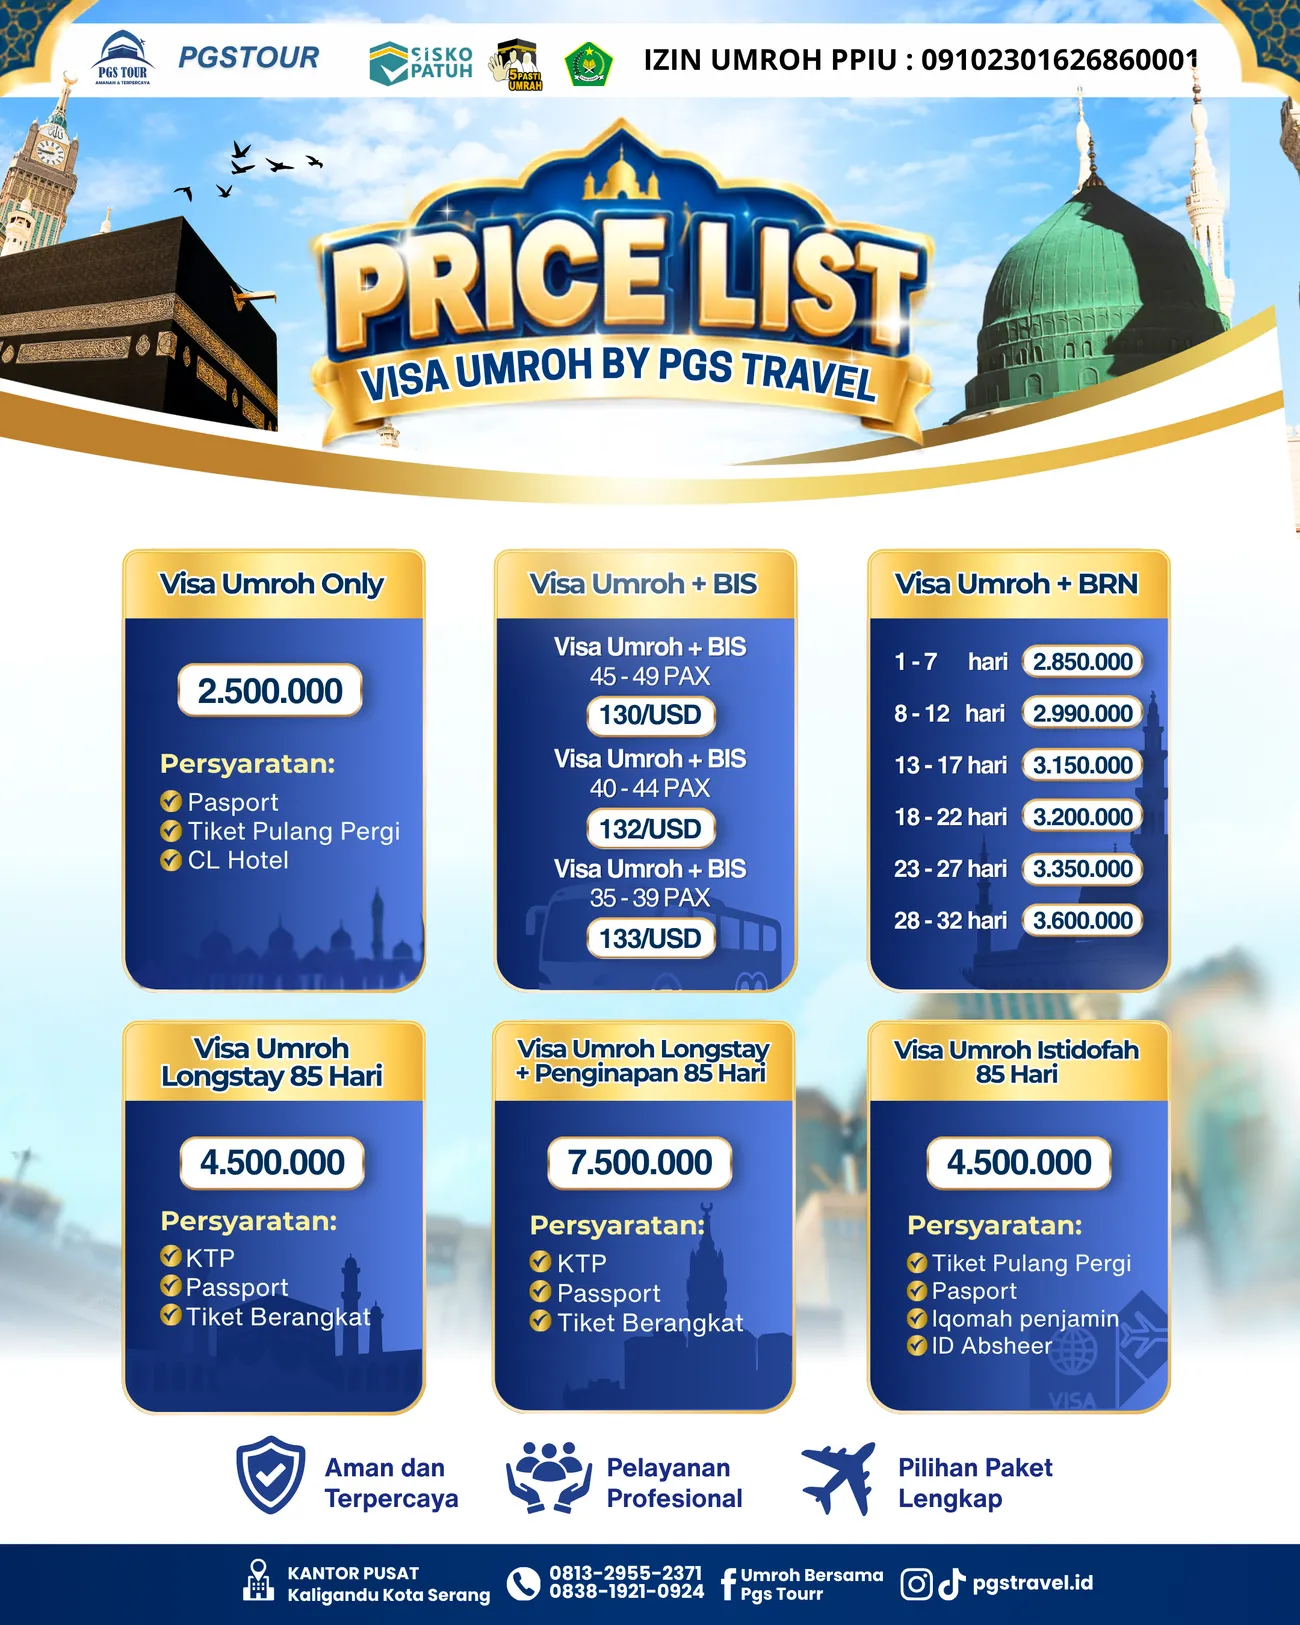
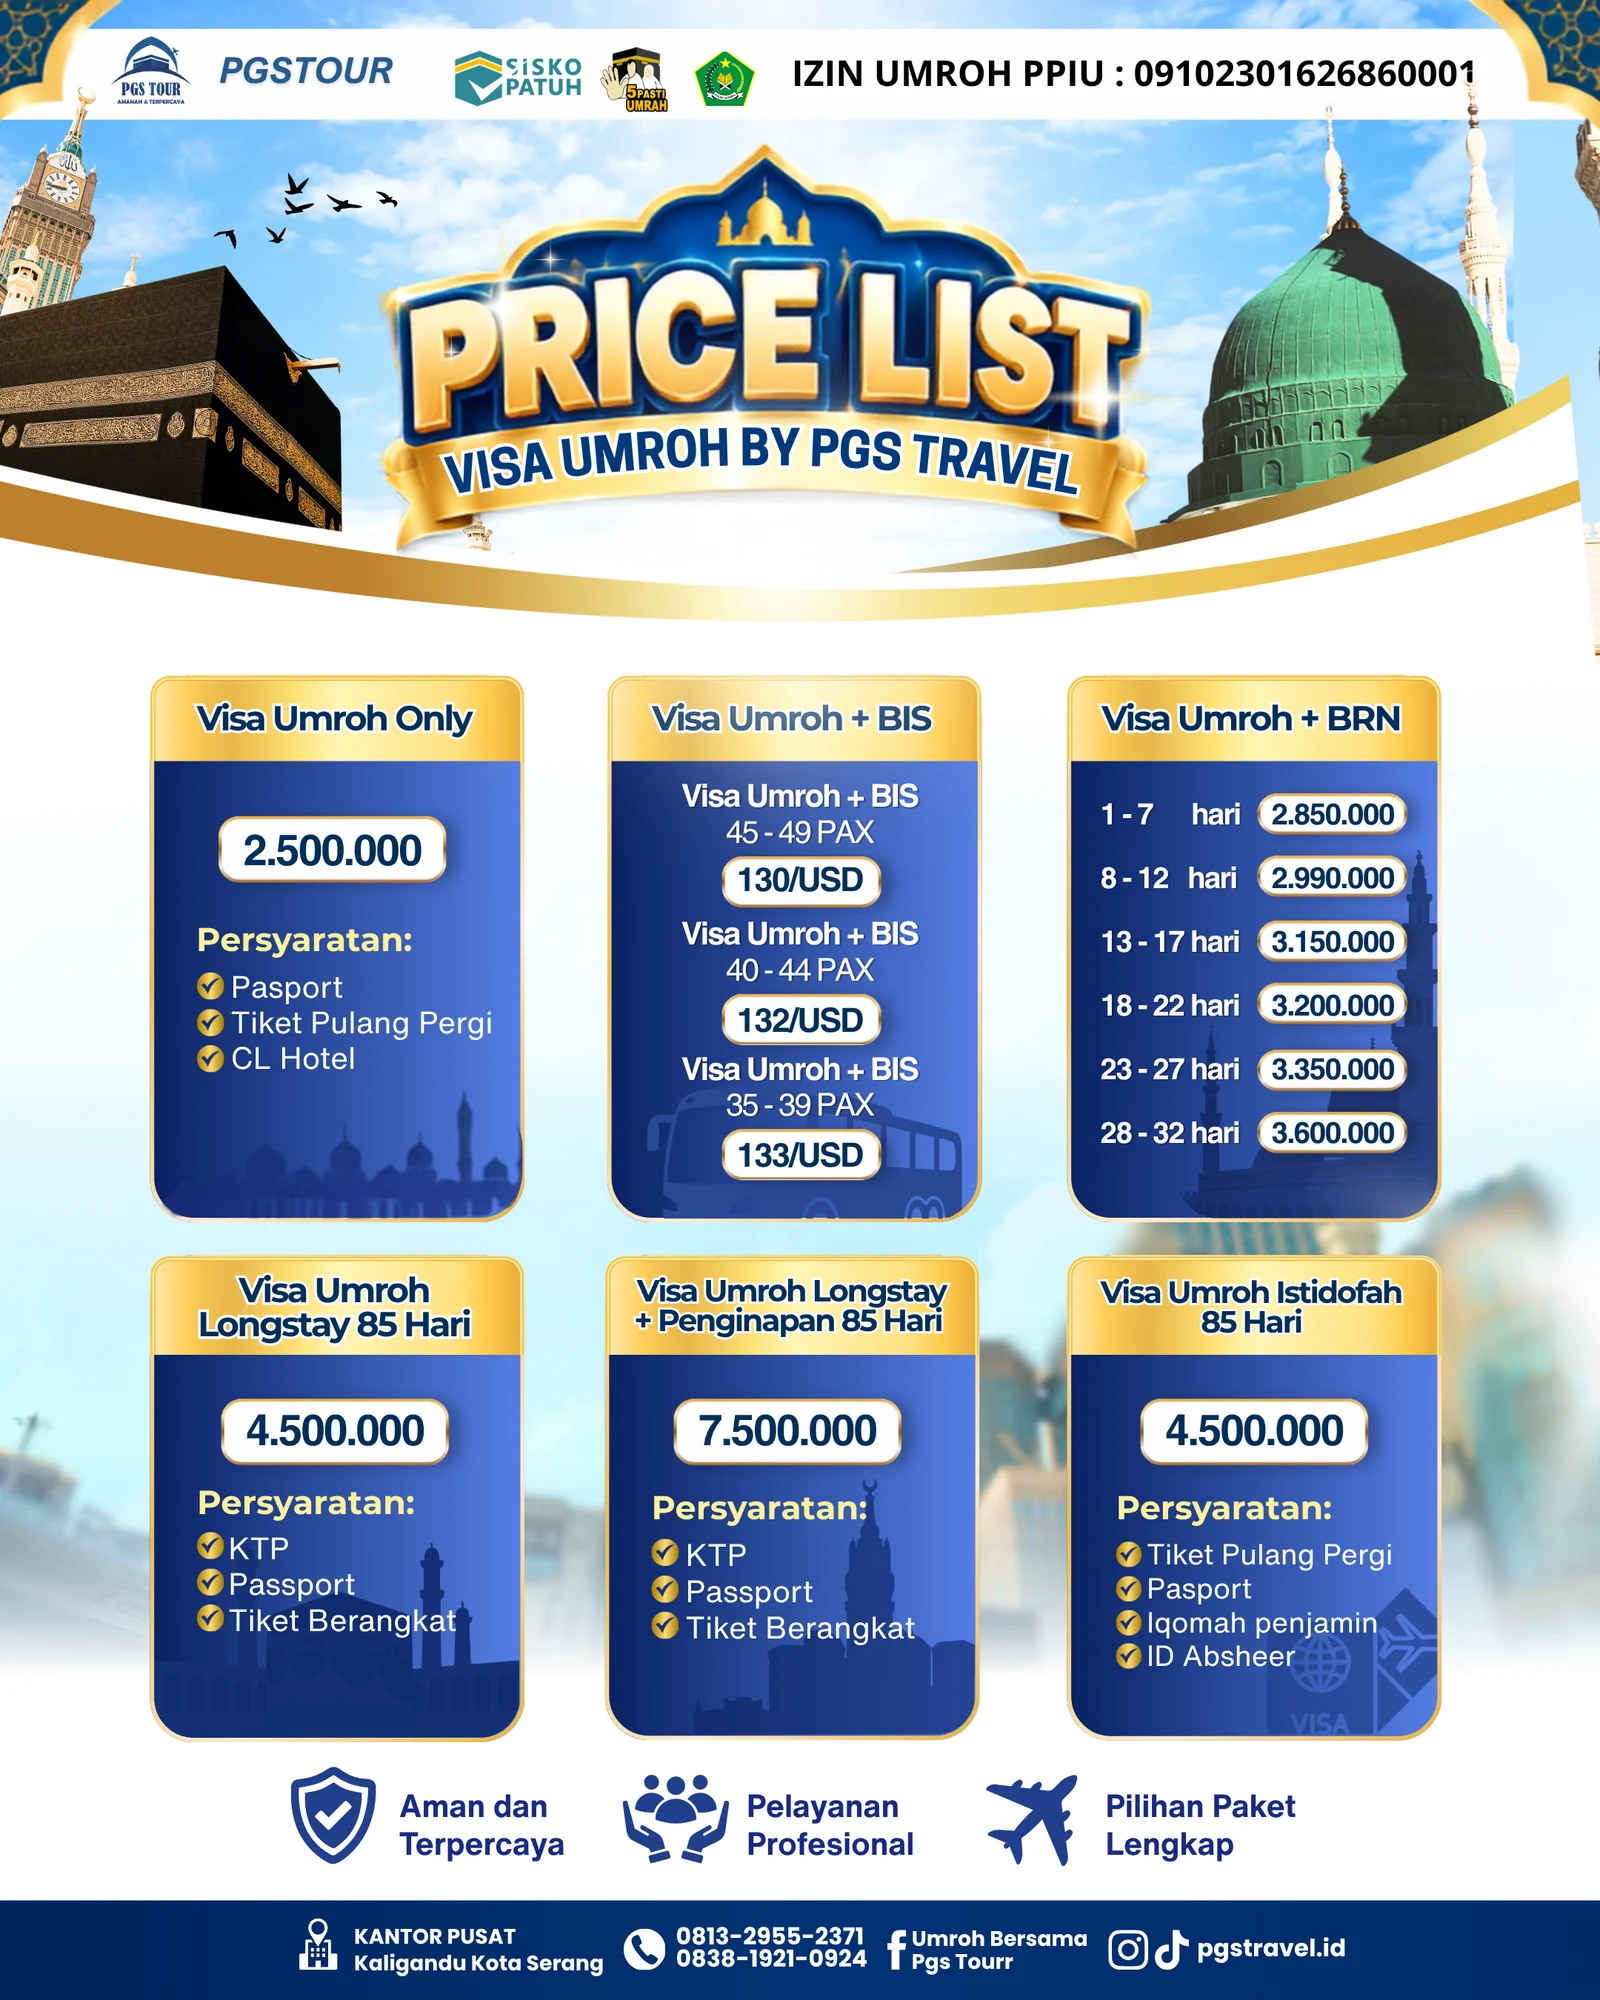
Font Plus Jakarta Sans + poster jadi foto paket
- Ganti Hanken Grotesk -> Plus Jakarta Sans di seluruh situs
- Re-optimasi poster ke 1600px webp (lebih tajam, ~340KB)
- Poster Umroh Mahabbah dipakai sebagai foto paket (PackageCard object-top)
- Hilangkan badge overlay & background foto di hero detail (poster sudah bicara)
- PosterView tetap di detail paket & halaman visa (klik = ukuran penuh)

Changed region(s): [[0.4308, 0.9538, 0.4923, 0.9846], [0.8, 0.5231, 0.8308, 0.5538]]

diff --git a/src/app/perjalanan/[slug]/page.tsx b/src/app/perjalanan/[slug]/page.tsx
@@ -48,15 +48,8 @@ export default async function PackageDetailPage({
   return (
     <>
       <section className="relative w-full overflow-hidden bg-ink-2 text-paper-2">
-        {/* Real photo background with multi-stop dark overlay */}
-        {/* eslint-disable-next-line @next/next/no-img-element */}
-        <img
-          src={pkg.image}
-          alt={pkg.name}
-          className="absolute inset-0 h-full w-full object-cover opacity-40"
-        />
-        <div className="absolute inset-0 bg-gradient-to-r from-ink-2/95 via-ink-2/85 to-ink-2/65" />
-        <div className="absolute inset-0 bg-gradient-to-t from-ink-2 via-transparent to-ink-2/60" />
+        <div className="absolute inset-0 bg-[radial-gradient(130%_120%_at_85%_0%,#2c67b2_0%,#1b287c_48%,#0c1030_100%)]" />
+        <div className="absolute inset-0 bg-gradient-to-t from-ink-2 via-transparent to-transparent" />
 
         <div className="relative mx-auto w-full max-w-7xl px-5 pb-8 pt-28 sm:px-8 sm:pb-10 sm:pt-32">
           <Link
@@ -214,8 +207,8 @@ export default async function PackageDetailPage({
         <PosterView
           src="/img/poster-umroh-mahabbah.webp"
           alt="Poster resmi Umroh Mahabbah PGS Tour"
-          width={1300}
-          height={1845}
+          width={1600}
+          height={2270}
           title="Poster resmi paket ini"
           note="Semua rincian di halaman ini diambil dari poster berikut."
         />

diff --git a/src/components/PackageCard.tsx b/src/components/PackageCard.tsx
@@ -26,28 +26,18 @@ export function PackageCard({
     >
       <div
         className={clsx(
-          "relative shrink-0 overflow-hidden bg-sand",
-          featured ? "h-52 md:h-auto md:w-[45%]" : "h-44",
+          "relative shrink-0 overflow-hidden bg-[#dbeafe]",
+          featured ? "h-60 md:h-auto md:w-[42%]" : "h-48",
         )}
       >
         <Photo
           src={pkg.image}
           label={pkg.name}
-          alt={`Suasana ${pkg.cities.join(", ")}`}
+          alt={`Poster ${pkg.name}`}
           bare
           fill
-          imgClassName="transition-transform duration-500 group-hover:scale-[1.05]"
+          imgClassName="object-top transition-transform duration-500 group-hover:scale-[1.03]"
         />
-        <div className="absolute left-2.5 top-2.5 flex flex-wrap gap-1">
-          {pkg.badges.slice(0, featured ? 2 : 1).map((b) => (
-            <span
-              key={b}
-              className="rounded-full bg-paper-2/95 px-2 py-0.5 text-[10px] font-semibold text-ink shadow-2xs backdrop-blur-xs"
-            >
-              {b}
-            </span>
-          ))}
-        </div>
       </div>
 
       <div className="flex flex-1 flex-col p-4 sm:p-5">

diff --git a/src/app/globals.css b/src/app/globals.css
@@ -30,8 +30,8 @@
   --color-accent: #1173b0;
   --color-accent-soft: #86d0f2;
 
-  --font-display: var(--font-hanken), ui-sans-serif, system-ui, sans-serif;
-  --font-sans: var(--font-hanken), ui-sans-serif, system-ui, sans-serif;
+  --font-display: var(--font-jakarta), ui-sans-serif, system-ui, sans-serif;
+  --font-sans: var(--font-jakarta), ui-sans-serif, system-ui, sans-serif;
 
   --shadow-soft: 0 1px 2px rgba(12, 16, 48, 0.05), 0 14px 34px -14px rgba(12, 16, 48, 0.16);
   --shadow-lift: 0 2px 4px rgba(12, 16, 48, 0.06), 0 26px 60px -22px rgba(12, 16, 48, 0.22);
@@ -65,18 +65,18 @@ body {
   color: var(--color-ink);
 }
 
-/* Headline helper: tight, heavy grotesk */
+/* Headline helper: Plus Jakarta Sans, tight */
 .font-display {
   font-family: var(--font-display);
   font-weight: 700;
-  letter-spacing: -0.02em;
+  letter-spacing: -0.015em;
 }
 
 .headline {
   font-family: var(--font-display);
   font-weight: 700;
-  letter-spacing: -0.03em;
-  line-height: 0.98;
+  letter-spacing: -0.02em;
+  line-height: 1.03;
 }
 
 .text-balance {

diff --git a/src/app/layout.tsx b/src/app/layout.tsx
@@ -1,13 +1,13 @@
 import type { Metadata } from "next";
-import { Hanken_Grotesk } from "next/font/google";
+import { Plus_Jakarta_Sans } from "next/font/google";
 import "./globals.css";
 import { Navbar } from "@/components/layout/Navbar";
 import { Footer } from "@/components/layout/Footer";
 import { WhatsAppButton } from "@/components/layout/WhatsAppButton";
 import { site } from "@/lib/site";
 
-const hanken = Hanken_Grotesk({
-  variable: "--font-hanken",
+const jakarta = Plus_Jakarta_Sans({
+  variable: "--font-jakarta",
   subsets: ["latin"],
   display: "swap",
 });
@@ -45,7 +45,7 @@ export const metadata: Metadata = {
 
 export default function RootLayout({ children }: LayoutProps<"/">) {
   return (
-    <html lang="id" className={`${hanken.variable} h-full antialiased`}>
+    <html lang="id" className={`${jakarta.variable} h-full antialiased`}>
       <body className="min-h-screen bg-paper text-ink">
         <Navbar />
         <main>{children}</main>

diff --git a/src/app/perjalanan/page.tsx b/src/app/perjalanan/page.tsx
@@ -6,7 +6,6 @@ import { PageHeader } from "@/components/ui/PageHeader";
 import { PackageCard } from "@/components/PackageCard";
 import { Faq } from "@/components/Faq";
 import { CtaBand } from "@/components/CtaBand";
-import { PosterView } from "@/components/PosterView";
 import { mainPackage, formatIDR } from "@/content/packages";
 
 export const metadata: Metadata = {
@@ -63,15 +62,6 @@ export default function PerjalananPage() {
           </p>
         </Container>
       </section>
-
-      <PosterView
-        src="/img/poster-umroh-mahabbah.webp"
-        alt="Poster resmi Umroh Mahabbah PGS Tour: harga kamar, fasilitas, dan program"
-        width={1300}
-        height={1845}
-        title="Poster Umroh Mahabbah"
-        note="Rincian harga, fasilitas, dan program sesuai poster resmi PGS Tour."
-      />
 
       <div className="border-t border-line bg-paper-2">
         <Faq />

diff --git a/src/content/packages.ts b/src/content/packages.ts
@@ -73,7 +73,7 @@ export const packages: UmrahPackage[] = [
     hotelMadinah: "Astoneast Taiba, dekat Masjid Nabawi",
     departure: "Keberangkatan terdekat - hubungi kami untuk tanggal pastinya",
     quota: "Kuota terbatas per keberangkatan",
-    image: "/img/makkah.jpg",
+    image: "/img/poster-umroh-mahabbah.webp",
     highlights: [
       "Umroh 2x dengan miqat di Bir Ali dan At-Tan'im",
       "Kereta cepat Haramain (HHR) Makkah - Madinah",

diff --git a/src/app/visa-umroh/page.tsx b/src/app/visa-umroh/page.tsx
@@ -116,8 +116,8 @@ export default function VisaUmrohPage() {
       <PosterView
         src="/img/poster-visa-umroh.webp"
         alt="Poster resmi Price List Visa Umroh by PGS Travel"
-        width={1300}
-        height={1625}
+        width={1600}
+        height={2000}
         title="Poster Price List Visa Umroh"
         note="Seluruh tarif dan persyaratan di halaman ini mengikuti poster resmi PGS Travel."
       />
